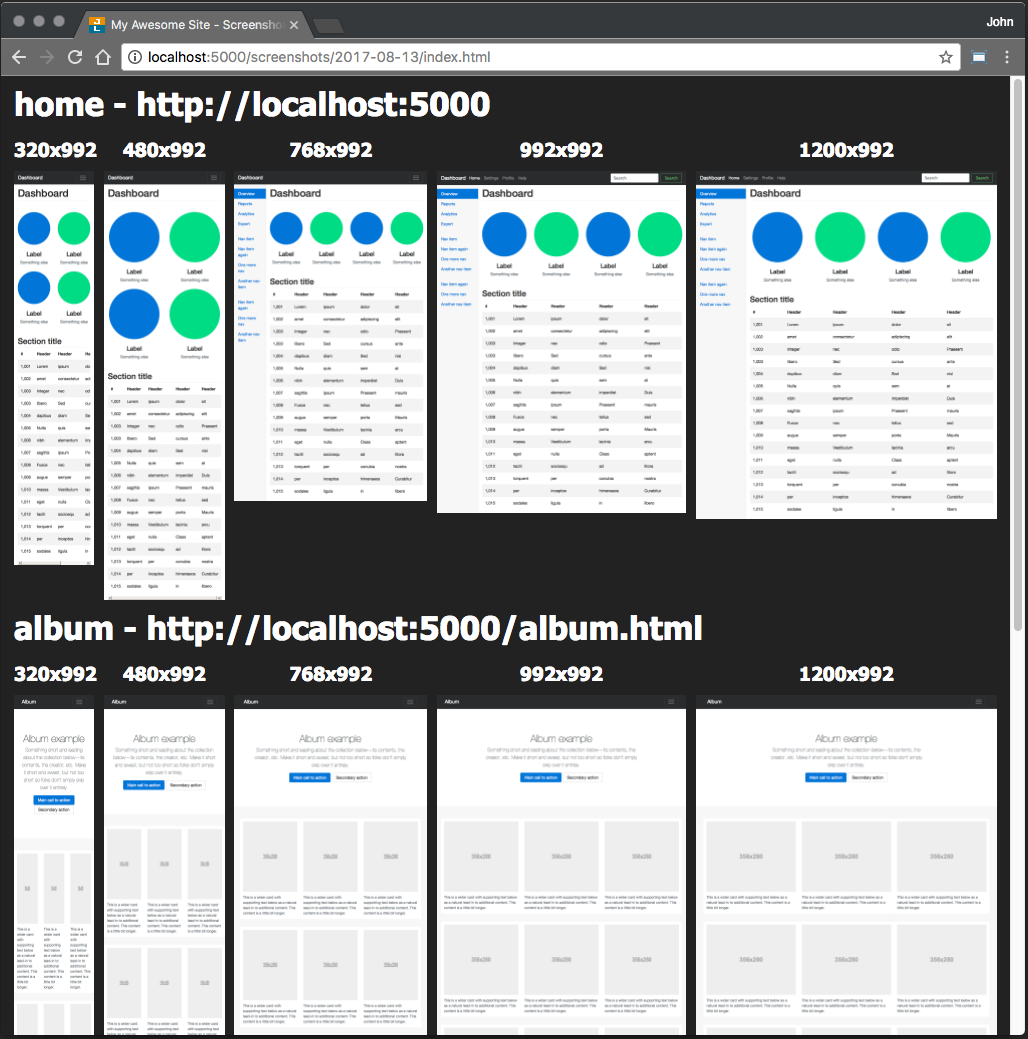
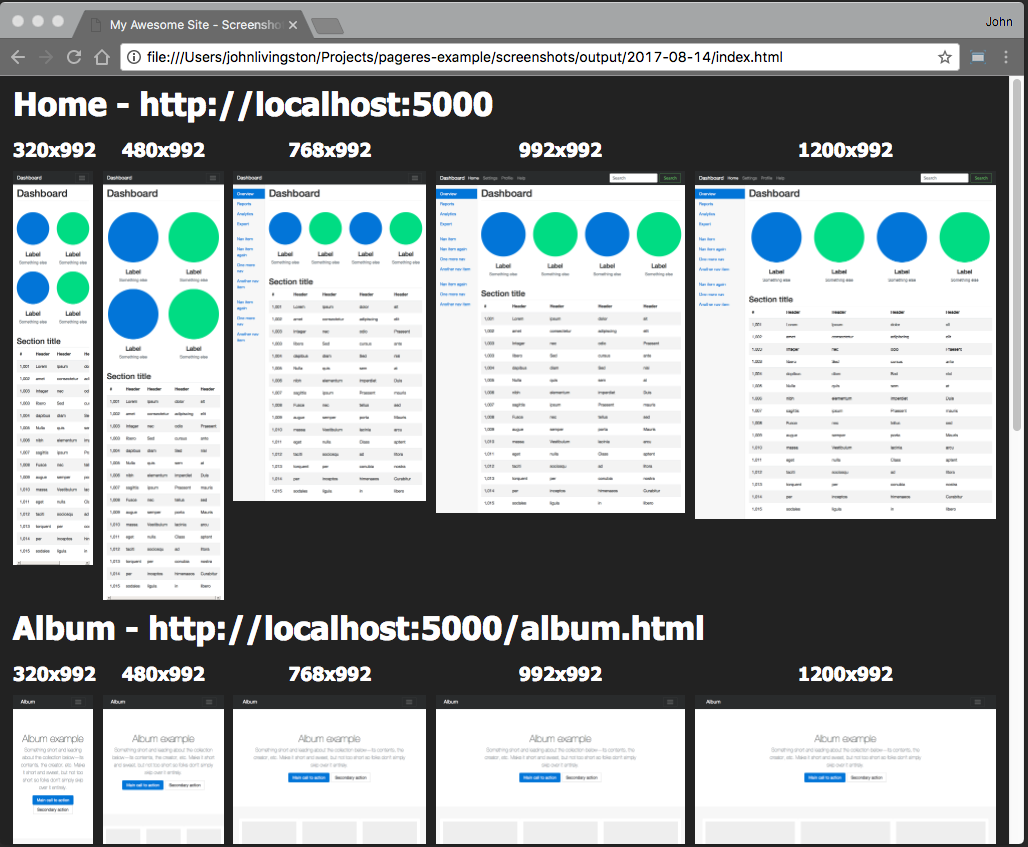
Code cleanup

diff --git a/screenshots/build.js b/screenshots/build.js
@@ -1,0 +1,93 @@
+const Pageres = require('pageres')
+const rimraf = require('rimraf')
+const fs = require('fs')
+
+const config = require('./config')
+const siteMap = require('./siteMap')
+
+const baseDirectory = `${__dirname}/output`
+const targetDirectory = `${baseDirectory}/${config.targetDirectory}`
+const templateName = `${__dirname}/template.html`
+const templateTarget = `${targetDirectory}/index.html`
+let html = ''
+const totalWidth = config.resolutions.reduce((total, item) => {
+  return total = parseFloat(total) + parseFloat(item.split('x')[0])
+})
+
+const percentages = config.resolutions.map((item) => {
+  const percent = item.split('x')[0] / totalWidth
+  return parseFloat(percent) * (100 - config.resolutions.length).toFixed(2)
+})
+
+const rebuildDirectory = cb => {
+  if (!fs.existsSync(baseDirectory)) {
+    fs.mkdirSync(baseDirectory)
+  }
+  rimraf(targetDirectory, () => {
+    fs.mkdirSync(targetDirectory)
+    cb()
+  })
+}
+
+const buildHtmlFile = () => {
+  fs.createReadStream(templateName)
+    .pipe(fs.createWriteStream(templateTarget))
+  fs.readFile(templateTarget, 'utf8', function (err, text) {
+    if (err) {
+      console.log(err)
+    } else {
+      text = text.replace('SCREENSHOTS_HTML', html)
+      text = text.replace('SCREENSHOTS_TITLE', config.siteTitle + ' - Screenshots')
+      fs.writeFile(templateTarget, text, function (err) {
+        if (err) {
+          console.log(err)
+        }
+      })
+    }
+  })
+}
+
+const updateHtml = (slug, title) => {
+  html += `<div>`
+  html += `<h1>
+              <a target="_blank" href="${config.baseUrl}${slug}">
+                ${title} - ${config.baseUrl}${slug}
+              </a>
+            </h1>`
+  html += config.resolutions.map((resolution, index) => (
+    `<div class="img-container" style="width:${percentages[index]}%">
+      <h3>${resolution}</h3>
+      <a target="_blank" href="./${title}/${resolution}.png">
+        <img src="./${title}/${resolution}.png" />
+      </a>
+    </div>`
+  )).join('')
+  html += '</div>'
+}
+
+const createScreenshot = (slug, title) => {
+  console.log(title + ' - creating screenshot...')
+  const dest = `${targetDirectory}/${title}`
+  new Pageres({ delay: 2 })
+    .src(config.baseUrl + slug, config.resolutions, { filename: '<%= size %>' })
+    .dest(dest)
+    .run()
+    .then(() => console.log(title + ' - done'))
+}
+
+const loopSiteMap = (pages) => {
+  pages.forEach(page => {
+    createScreenshot(page.url, page.title)
+    updateHtml(page.url, page.title)
+    if (page.children) {
+      loopSiteMap(page.children)
+    }
+  })
+}
+
+rebuildDirectory(() => {
+  loopSiteMap(siteMap)
+  buildHtmlFile()
+  console.log('HTML File Available Here:')
+  console.log(templateTarget)
+})

diff --git a/screenshots/config.js b/screenshots/config.js
@@ -1,0 +1,16 @@
+const date = new Date()
+
+const config = {
+  baseUrl: 'http://localhost:5000',
+  siteTitle: 'My Awesome Site',  
+  targetDirectory: `${date.getFullYear()}-${('0' + Number(date.getMonth() + 1)).substring(-2)}-${date.getDate()}`,
+  resolutions: [
+    '320x992',
+    '480x992',
+    '768x992',
+    '992x992',
+    '1200x992'
+  ]
+}
+
+module.exports = config

diff --git a/screenshots/siteMap.js b/screenshots/siteMap.js
@@ -1,0 +1,13 @@
+const siteMap = [{
+  title: 'Home',
+  url: '',
+  children: [{
+    title: 'Album',
+    url: '/album.html'
+  }, {
+    title: 'Cover',
+    url: '/cover.html'
+  }]
+}]
+
+module.exports = siteMap

diff --git a/README.md b/README.md
@@ -1,10 +1,54 @@
 # pageres example
 
-Simple scripts for creating screenshots and checking the mobile friendliness of your site. Just update the **baseUrl**, **siteMap**, **siteTitle**, and **resolutions**, then run. This script will create a base directory based on the date, then subfolders with each individual site. Finally an index.html will be created for viewing.
+Some simple scripts for creating screenshots and checking the mobile friendliness of your site. This script will create a base directory based on the date, then subfolders will be added for each individual site. Based on the resolutions you provide, images will then be created using <a target="_blank" title="pageres" href="//github.com/sindresorhus/pageres">pageres</a>.  Finally an static html file will be created for viewing and sharing.
+
+## Instructions
+
+```bash
+npm start
+```
+
+```bash
+npm run screenshots
+```
+
+## Sharing Instructions
+
+- Zip the target directory and send or share
+- Unzip and open index.html file to view
+
+> **Note:** If you have a ton of screenshots or sending to a large audience, and don't want to risk the wrath of your Exchange admin, I'd recommend copying to a network drive or hosting on a static server. 😀
+
+### Integrate in your own Project
+
+```bash
+npm install rimraf pageres --save-dev
+```
+
+- copy the **screenshots** directory
+- update **screenshots\config.js**
+  - **baseUrl** - base url of your site. Just make sure it is running.
+  - **siteTitle** - will populate title tag in the HTML file
+  - **targetDirectory** -  used for output directory (default is based on date YYYY-MM-DD)
+  - **resolutions** - array of resolutions
+- update **screenshots\siteMap.js** (If you have a different format, just tweak the loopSiteMap function in build.js)
+- ensure your site is up and running
+- add the following to your package.json
+
+```javascript
+"scripts": {
+  "screenshots": "node ./screenshots/build.js"
+}
+```
+
+```bash
+npm run screenshots
+```
 
 ## Screenshot
 
-- Click on URL to navigate to page
+- Open HTML file to view screenshots
+- Click on title to navigate to page
 - Click on images to see them individually
 
 ![screenshot](./readme-img.png)
